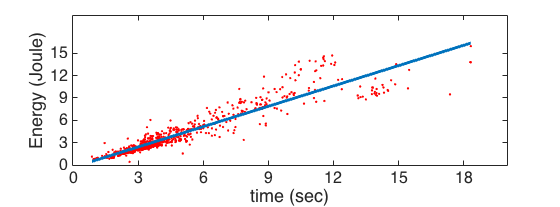
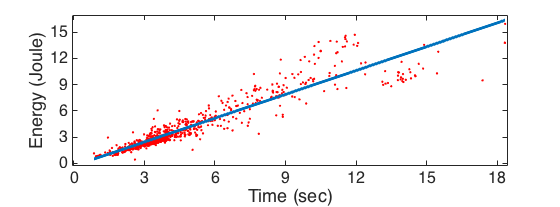
update the figures

diff --git a/energy_model.m b/energy_model.m
@@ -37,6 +37,6 @@ plot(time,simulated_energy,'Linewidth',3)
 set(gca , 'FontSize', ftsz);
 set(gca , 'xTick', 0:3:max(time)+1);
 set(gca , 'yTick', 0:3:max(energy)+1);
-xlabel('time (sec)');
+xlabel('Time (sec)');
 ylabel('Energy (Joule)')
 
